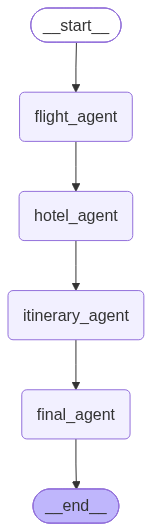
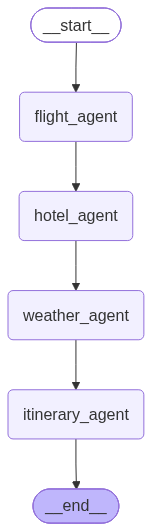
refactor: consolidate itinerary and final response agents and update graph workflow execution order

Changed region(s): [[0.0263, 0.7232, 0.9737, 0.8437], [0.1579, 0.5725, 0.5263, 0.6328], [0.5263, 0.9341, 0.6053, 0.9642]]

diff --git a/main.py b/main.py
@@ -12,7 +12,7 @@ from langchain_groq import ChatGroq
 # from tools.tavily_tool import tavily_search
 # from tools.flight_tool import search_flights
 from dotenv import load_dotenv
-from mcp_client import (tavily_mcp_server,aviation_mcp_calls,get_airports, get_airlines, freezw)
+from mcp_client import (tavily_mcp_server,aviation_mcp_calls,get_airports, get_airlines,)
 
 load_dotenv()
 
@@ -115,7 +115,6 @@ def hotel_agent(state: TravelState):
         "llm_calls": state.get("llm_calls", 0) + 1
     }
  
- 
 # Weather Agent
 def weather_agent(state: TravelState):
 
@@ -145,12 +144,14 @@ def weather_agent(state: TravelState):
     }
 
     
-# Itinerary Agent
+# Itinerary + Final Response Agent
 def itinerary_agent(state: TravelState):
 
-    # dynamic prompt to send to the llm
     prompt = f"""
-    Create a travel itinerary.
+    Create the final travel response for the user.
+
+    You are an expert travel planner.
+
     User Query:
     {state['user_query']}
 
@@ -159,49 +160,32 @@ def itinerary_agent(state: TravelState):
 
     Hotel Results:
     {state['hotel_results']}
-    
+
     Weather Information:
     {state['weather_results']}
+
+    Instructions:
+    - Create a practical travel itinerary based on the information above.
+    - Include the relevant flight information.
+    - Include the relevant hotel information.
+    - Use the weather information when planning the itinerary.
+    - Organize the response clearly by day.
+    - Include useful travel recommendations.
+    - Add relatable emojis where appropriate.
+    - Return a complete final response directly to the user.
     """
 
-    # call the llm
+    # Call the LLM
     response = llm.invoke([
         SystemMessage(
-            content="You are an expert travel planner"
+            content="You are an expert travel planner who creates clear and practical travel plans."
         ),
         HumanMessage(content=prompt)
     ])
 
-# update TravelState with below details
+    # Update TravelState
     return {
         "itinerary": response.content,
-        "messages": [response],
-        "llm_calls": state.get("llm_calls", 0) + 1
-    }
-
-# Final Response Agent
-def final_agent(state: TravelState):
-
-    # dynamic final prompt to send to the llm
-    final_prompt = f"""
-    Generate final travel response and aslo add relatable emoji.
-
-    Flights:
-    {state['flight_results']}
-
-    Hotels:
-    {state['hotel_results']}
-
-    Itinerary:
-    {state['itinerary']}
-    """
-
-#llm call
-    response = llm.invoke([
-        HumanMessage(content=final_prompt)
-    ])
-
-    return {
         "messages": [response],
         "llm_calls": state.get("llm_calls", 0) + 1
     }
@@ -212,15 +196,17 @@ g = StateGraph(TravelState)
 # add nodes
 g.add_node("flight_agent", flight_agent)
 g.add_node("hotel_agent", hotel_agent)
+g.add_node("weather_agent", weather_agent)
 g.add_node("itinerary_agent", itinerary_agent)
-g.add_node("final_agent", final_agent)
+
 
 # add edges
 g.add_edge(START , "flight_agent")
 g.add_edge("flight_agent", "hotel_agent")
-g.add_edge("hotel_agent", "itinerary_agent")
-g.add_edge("itinerary_agent", "final_agent")
-g.add_edge("final_agent", END)
+g.add_edge("hotel_agent", "weather_agent")
+g.add_edge("weather_agent", "itinerary_agent")
+g.add_edge("itinerary_agent", END)
+
 
 
 # Persistent connection so both CLI and Streamlit can share the compiled app
@@ -243,7 +229,7 @@ print("Graph saved successfully!")
 if __name__ == "__main__":
     config = {
         "configurable": {
-            "thread_id": "mahesh-2"  # Required for resuming state
+            "thread_id": "mahesh-3"  # Required for resuming state
         }
     }
 
@@ -273,21 +259,5 @@ if __name__ == "__main__":
     for msg in result["messages"]:
         print(msg.content)
 
-
-
-
-# query ="Create a five-day plan for Melbourne. I'm visiting Melbourne from Sydney."
-# result = g.invoke({
-#     'user_query': query,
-#     "flight_results" :"",
-#     "hotel_results":"",
-#     'itinerary':"",
-#     'messages':[],
-#     'llm_calls':0
-# })
-
-# print("\nQUERY:",query)
-# print("Final response:",result["messages"][-1].content)
-# print("Total LLM calls:", result["llm_calls"])
 
 

diff --git a/mcp_client.py b/mcp_client.py
@@ -1,4 +1,3 @@
-from streamlit.proto.NewSession_pb2 import Initialize
 import os
 import sys
 import asyncio
@@ -76,9 +75,9 @@ async def initialize_mcp():
 # get all the available tools
     tools = await client.get_tools()
 
-    # print("\nAvailable MCP Tools:")
-    # for tool in tools:
-    #     print(tool.name)
+    print("\nAvailable MCP Tools:")
+    for tool in tools:
+        print(tool.name)
         
     # Look all the tools and find the one whose name is tavily_search.
     search_tool = None
@@ -185,7 +184,6 @@ async def forecast_mcp_search(city: str):
         }
     )
 
-
 # LLM  - weather agent
 llm = ChatGroq(
     model="llama-3.3-70b-versatile"
@@ -209,5 +207,14 @@ def extract_destination(query: str):
 
     return response.content.strip()
 
+
+
+# testing all the available TOOLS
+async def print_all_tools():
+    tools = await client.get_tools()
+    print(f"\nFound {len(tools)} MCP Tools:\n")
+    for tool in tools:
+        print(f"- {tool.name}")
+       
 if __name__ == "__main__":
-    asyncio.run(main())
+    asyncio.run(print_all_tools())
